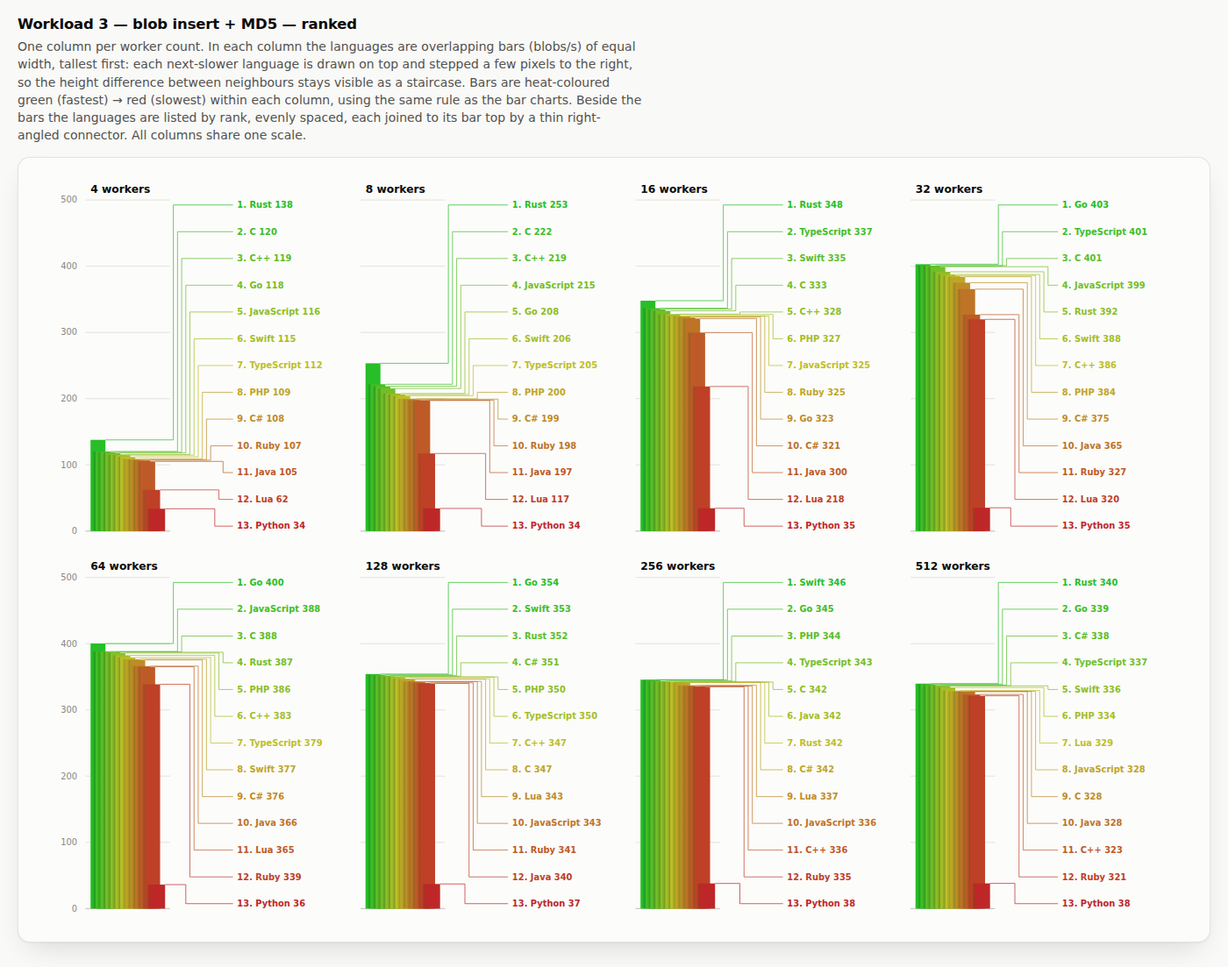
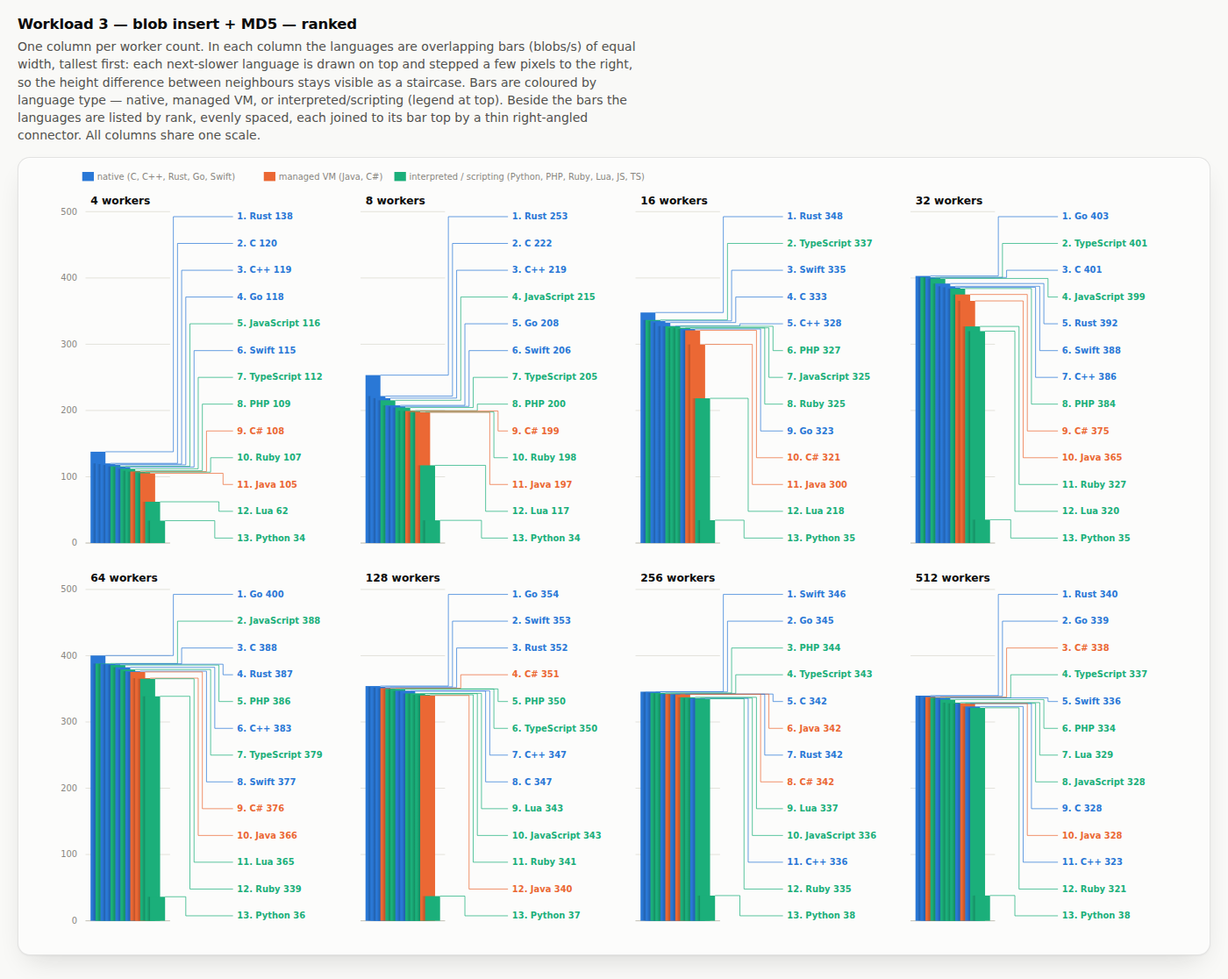
report: colour ranked-chart bars by language type (native / managed / interpreted)
Replace the heat-map colouring on ranked.html with three colours by language
type: native (C, C++, Rust, Go, Swift), managed VM (Java, C#), and
interpreted/scripting (Python, PHP, Ruby, Lua, JavaScript, TypeScript), using
palette slots 1-3. Connectors and labels take the same type colour; a legend
sits above the columns (TOP margin widened to fit). Subtitle updated.

diff --git a/report/ranked.html b/report/ranked.html
@@ -114,22 +114,22 @@
 
   <section id="sec-w1-rank">
     <h2>Workload 1 — integer insert — ranked</h2>
-    <p class="sub">One column per worker count. In each column the languages are overlapping bars (rows/s) of equal width, tallest first: each next-slower language is drawn on top and stepped a few pixels to the right, so the height difference between neighbours stays visible as a staircase. Bars are heat-coloured green&nbsp;(fastest)&nbsp;&rarr;&nbsp;red&nbsp;(slowest) within each column, using the same rule as the bar charts. Beside the bars the languages are listed by rank, evenly spaced, each joined to its bar top by a thin right-angled connector. All columns share one scale.</p>
+    <p class="sub">One column per worker count. In each column the languages are overlapping bars (rows/s) of equal width, tallest first: each next-slower language is drawn on top and stepped a few pixels to the right, so the height difference between neighbours stays visible as a staircase. Bars are coloured by language type &mdash; native, managed VM, or interpreted/scripting (legend at top). Beside the bars the languages are listed by rank, evenly spaced, each joined to its bar top by a thin right-angled connector. All columns share one scale.</p>
     <div class="bigchart" id="chart-w1-rank"></div>
   </section>
   <section id="sec-w2-rank">
     <h2>Workload 2 — integer fetch + sum — ranked</h2>
-    <p class="sub">One column per worker count. In each column the languages are overlapping bars (rows/s) of equal width, tallest first: each next-slower language is drawn on top and stepped a few pixels to the right, so the height difference between neighbours stays visible as a staircase. Bars are heat-coloured green&nbsp;(fastest)&nbsp;&rarr;&nbsp;red&nbsp;(slowest) within each column, using the same rule as the bar charts. Beside the bars the languages are listed by rank, evenly spaced, each joined to its bar top by a thin right-angled connector. All columns share one scale.</p>
+    <p class="sub">One column per worker count. In each column the languages are overlapping bars (rows/s) of equal width, tallest first: each next-slower language is drawn on top and stepped a few pixels to the right, so the height difference between neighbours stays visible as a staircase. Bars are coloured by language type &mdash; native, managed VM, or interpreted/scripting (legend at top). Beside the bars the languages are listed by rank, evenly spaced, each joined to its bar top by a thin right-angled connector. All columns share one scale.</p>
     <div class="bigchart" id="chart-w2-rank"></div>
   </section>
   <section id="sec-w3-rank">
     <h2>Workload 3 — blob insert + MD5 — ranked</h2>
-    <p class="sub">One column per worker count. In each column the languages are overlapping bars (blobs/s) of equal width, tallest first: each next-slower language is drawn on top and stepped a few pixels to the right, so the height difference between neighbours stays visible as a staircase. Bars are heat-coloured green&nbsp;(fastest)&nbsp;&rarr;&nbsp;red&nbsp;(slowest) within each column, using the same rule as the bar charts. Beside the bars the languages are listed by rank, evenly spaced, each joined to its bar top by a thin right-angled connector. All columns share one scale.</p>
+    <p class="sub">One column per worker count. In each column the languages are overlapping bars (blobs/s) of equal width, tallest first: each next-slower language is drawn on top and stepped a few pixels to the right, so the height difference between neighbours stays visible as a staircase. Bars are coloured by language type &mdash; native, managed VM, or interpreted/scripting (legend at top). Beside the bars the languages are listed by rank, evenly spaced, each joined to its bar top by a thin right-angled connector. All columns share one scale.</p>
     <div class="bigchart" id="chart-w3-rank"></div>
   </section>
   <section id="sec-w4-rank">
     <h2>Workload 4 — blob read + MD5 — ranked</h2>
-    <p class="sub">One column per worker count. In each column the languages are overlapping bars (blobs/s) of equal width, tallest first: each next-slower language is drawn on top and stepped a few pixels to the right, so the height difference between neighbours stays visible as a staircase. Bars are heat-coloured green&nbsp;(fastest)&nbsp;&rarr;&nbsp;red&nbsp;(slowest) within each column, using the same rule as the bar charts. Beside the bars the languages are listed by rank, evenly spaced, each joined to its bar top by a thin right-angled connector. All columns share one scale.</p>
+    <p class="sub">One column per worker count. In each column the languages are overlapping bars (blobs/s) of equal width, tallest first: each next-slower language is drawn on top and stepped a few pixels to the right, so the height difference between neighbours stays visible as a staircase. Bars are coloured by language type &mdash; native, managed VM, or interpreted/scripting (legend at top). Beside the bars the languages are listed by rank, evenly spaced, each joined to its bar top by a thin right-angled connector. All columns share one scale.</p>
     <div class="bigchart" id="chart-w4-rank"></div>
   </section>
   <footer>
@@ -422,7 +422,7 @@ const PAGE_BARS = false;
     const items = cfg.items, S = items.length, T = cfg.T, NT = T.length;
     const COLS = 4, ROWS = Math.ceil(NT / COLS);
     const BW = 1400, ML = 58, MR = 14, CW = (BW - ML - MR) / COLS;
-    const TITLE_H = 26, PLOT_H = 400, ROW_B = 30, RH = TITLE_H + PLOT_H + ROW_B, TOP = 8;
+    const TITLE_H = 26, PLOT_H = 400, ROW_B = 30, RH = TITLE_H + PLOT_H + ROW_B, TOP = 22;  // TOP leaves room for the type legend
     const BH = TOP + ROWS * RH;
     const OFF = 6, BARW = 3 * OFF, CHW = 5;   // bar width = 3x the step; each shorter bar shifted right by OFF
     const svg = el("svg", { viewBox: `0 0 ${BW} ${BH}`, role: "img", "aria-label": cfg.ariaLabel });
@@ -433,18 +433,19 @@ const PAGE_BARS = false;
       const s0 = el("stop", { offset: "0", "stop-color": "#000", "stop-opacity": "0" });
       const s1 = el("stop", { offset: "1", "stop-color": "#000", "stop-opacity": "0.22" });
       g.append(s0, s1); defs.appendChild(g); svg.appendChild(defs); }
-    // Heat-map colour by performance within the column (same rule as bars.html):
-    // wide spread (>50%) -> green..red by rank; tight group -> hue shifts only by
-    // each bar's shortfall from the column's best (red at a 50% deficit).
-    const heat = (vals) => {
-      const n = vals.length, best = vals[0], worst = vals[n - 1];
-      const byRank = best > 0 && (best - worst) / best > 0.5;
-      return vals.map((v, j) => {
-        const hue = byRank ? 120 * (1 - (n > 1 ? j / (n - 1) : 0))
-                           : 120 * (1 - Math.min(best > 0 ? (best - v) / best : 0, 0.5) / 0.5);
-        return `hsl(${hue.toFixed(1)}, 66%, 45%)`;
-      });
-    };
+    // Three colours by language type: native (compiled to machine code),
+    // managed (bytecode on a VM with a JIT), interpreted/scripting.
+    const LTYPE = { c: "native", cpp: "native", rust: "native", go: "native", swift: "native",
+                    java: "managed", csharp: "managed",
+                    python: "interp", php: "interp", ruby: "interp", lua: "interp", javascript: "interp", typescript: "interp" };
+    const TCOL = { native: "var(--cat-1)", managed: "var(--cat-2)", interp: "var(--cat-3)" };
+    const TNAME = { native: "native (C, C++, Rust, Go, Swift)", managed: "managed VM (Java, C#)", interp: "interpreted / scripting (Python, PHP, Ruby, Lua, JS, TS)" };
+    const typeCol = it => TCOL[LTYPE[it.lang] || "interp"];
+    // Legend along the top.
+    { let lx = ML; for (const k of ["native", "managed", "interp"]) {
+        svg.appendChild(el("rect", { x: lx, y: 0, width: 14, height: 11, fill: TCOL[k] }));
+        const t = el("text", { x: lx + 18, y: 9.5 }); t.textContent = TNAME[k]; svg.appendChild(t);
+        lx += 18 + TNAME[k].length * 5.6 + 22; } }
     const step = cfg.yMax / 5;
     T.forEach((t, ti) => {
       const c = ti % COLS, r = Math.floor(ti / COLS);
@@ -464,8 +465,7 @@ const PAGE_BARS = false;
       svg.appendChild(el("line", { x1: bx0 - 6, x2: bx0 + GW + 6, y1: pb, y2: pb, stroke: "var(--baseline)", "stroke-width": 1 }));
       // Flat equal-width bars, tallest first; each shorter one drawn on top,
       // shifted OFF px right, so the height differences read as a staircase.
-      const cols = heat(ranked.map(e => e.v));
-      ranked.forEach((e, j) => { e.col = cols[j]; });
+      ranked.forEach(e => { e.col = typeCol(e.it); });
       const tops = [];
       ranked.forEach((e, j) => {
         const yt = Y(e.v), h = Math.max(1, pb - yt);
@@ -610,7 +610,7 @@ const PAGE_BARS = false;
     });
     // Ranked bars (ranked.html): best = tallest + widest, connectors to labels.
     if (document.getElementById(`chart-w${w}-rank`)) {
-      const items = shown.map(s => ({ name: labelOf(s), vals: s.thr, value: Math.max(...s.thr.filter(v => v != null)), st: stOf(s) }))
+      const items = shown.map(s => ({ name: labelOf(s), lang: s.lang, vals: s.thr, value: Math.max(...s.thr.filter(v => v != null)), st: stOf(s) }))
         .sort((a, b) => b.value - a.value);
       rankChart({ hostId: `chart-w${w}-rank`, items, T: M.threads, yMax: niceMax(peak), unit: M.unit,
                   ariaLabel: `${M.title}: languages ranked by best throughput, nested bars per worker count` });

diff --git a/report/annotated.html b/report/annotated.html
@@ -426,7 +426,7 @@ const PAGE_BARS = false;
     const items = cfg.items, S = items.length, T = cfg.T, NT = T.length;
     const COLS = 4, ROWS = Math.ceil(NT / COLS);
     const BW = 1400, ML = 58, MR = 14, CW = (BW - ML - MR) / COLS;
-    const TITLE_H = 26, PLOT_H = 400, ROW_B = 30, RH = TITLE_H + PLOT_H + ROW_B, TOP = 8;
+    const TITLE_H = 26, PLOT_H = 400, ROW_B = 30, RH = TITLE_H + PLOT_H + ROW_B, TOP = 22;  // TOP leaves room for the type legend
     const BH = TOP + ROWS * RH;
     const OFF = 6, BARW = 3 * OFF, CHW = 5;   // bar width = 3x the step; each shorter bar shifted right by OFF
     const svg = el("svg", { viewBox: `0 0 ${BW} ${BH}`, role: "img", "aria-label": cfg.ariaLabel });
@@ -437,18 +437,19 @@ const PAGE_BARS = false;
       const s0 = el("stop", { offset: "0", "stop-color": "#000", "stop-opacity": "0" });
       const s1 = el("stop", { offset: "1", "stop-color": "#000", "stop-opacity": "0.22" });
       g.append(s0, s1); defs.appendChild(g); svg.appendChild(defs); }
-    // Heat-map colour by performance within the column (same rule as bars.html):
-    // wide spread (>50%) -> green..red by rank; tight group -> hue shifts only by
-    // each bar's shortfall from the column's best (red at a 50% deficit).
-    const heat = (vals) => {
-      const n = vals.length, best = vals[0], worst = vals[n - 1];
-      const byRank = best > 0 && (best - worst) / best > 0.5;
-      return vals.map((v, j) => {
-        const hue = byRank ? 120 * (1 - (n > 1 ? j / (n - 1) : 0))
-                           : 120 * (1 - Math.min(best > 0 ? (best - v) / best : 0, 0.5) / 0.5);
-        return `hsl(${hue.toFixed(1)}, 66%, 45%)`;
-      });
-    };
+    // Three colours by language type: native (compiled to machine code),
+    // managed (bytecode on a VM with a JIT), interpreted/scripting.
+    const LTYPE = { c: "native", cpp: "native", rust: "native", go: "native", swift: "native",
+                    java: "managed", csharp: "managed",
+                    python: "interp", php: "interp", ruby: "interp", lua: "interp", javascript: "interp", typescript: "interp" };
+    const TCOL = { native: "var(--cat-1)", managed: "var(--cat-2)", interp: "var(--cat-3)" };
+    const TNAME = { native: "native (C, C++, Rust, Go, Swift)", managed: "managed VM (Java, C#)", interp: "interpreted / scripting (Python, PHP, Ruby, Lua, JS, TS)" };
+    const typeCol = it => TCOL[LTYPE[it.lang] || "interp"];
+    // Legend along the top.
+    { let lx = ML; for (const k of ["native", "managed", "interp"]) {
+        svg.appendChild(el("rect", { x: lx, y: 0, width: 14, height: 11, fill: TCOL[k] }));
+        const t = el("text", { x: lx + 18, y: 9.5 }); t.textContent = TNAME[k]; svg.appendChild(t);
+        lx += 18 + TNAME[k].length * 5.6 + 22; } }
     const step = cfg.yMax / 5;
     T.forEach((t, ti) => {
       const c = ti % COLS, r = Math.floor(ti / COLS);
@@ -468,8 +469,7 @@ const PAGE_BARS = false;
       svg.appendChild(el("line", { x1: bx0 - 6, x2: bx0 + GW + 6, y1: pb, y2: pb, stroke: "var(--baseline)", "stroke-width": 1 }));
       // Flat equal-width bars, tallest first; each shorter one drawn on top,
       // shifted OFF px right, so the height differences read as a staircase.
-      const cols = heat(ranked.map(e => e.v));
-      ranked.forEach((e, j) => { e.col = cols[j]; });
+      ranked.forEach(e => { e.col = typeCol(e.it); });
       const tops = [];
       ranked.forEach((e, j) => {
         const yt = Y(e.v), h = Math.max(1, pb - yt);
@@ -614,7 +614,7 @@ const PAGE_BARS = false;
     });
     // Ranked bars (ranked.html): best = tallest + widest, connectors to labels.
     if (document.getElementById(`chart-w${w}-rank`)) {
-      const items = shown.map(s => ({ name: labelOf(s), vals: s.thr, value: Math.max(...s.thr.filter(v => v != null)), st: stOf(s) }))
+      const items = shown.map(s => ({ name: labelOf(s), lang: s.lang, vals: s.thr, value: Math.max(...s.thr.filter(v => v != null)), st: stOf(s) }))
         .sort((a, b) => b.value - a.value);
       rankChart({ hostId: `chart-w${w}-rank`, items, T: M.threads, yMax: niceMax(peak), unit: M.unit,
                   ariaLabel: `${M.title}: languages ranked by best throughput, nested bars per worker count` });

diff --git a/report/report.html b/report/report.html
@@ -506,7 +506,7 @@ const PAGE_BARS = false;
     const items = cfg.items, S = items.length, T = cfg.T, NT = T.length;
     const COLS = 4, ROWS = Math.ceil(NT / COLS);
     const BW = 1400, ML = 58, MR = 14, CW = (BW - ML - MR) / COLS;
-    const TITLE_H = 26, PLOT_H = 400, ROW_B = 30, RH = TITLE_H + PLOT_H + ROW_B, TOP = 8;
+    const TITLE_H = 26, PLOT_H = 400, ROW_B = 30, RH = TITLE_H + PLOT_H + ROW_B, TOP = 22;  // TOP leaves room for the type legend
     const BH = TOP + ROWS * RH;
     const OFF = 6, BARW = 3 * OFF, CHW = 5;   // bar width = 3x the step; each shorter bar shifted right by OFF
     const svg = el("svg", { viewBox: `0 0 ${BW} ${BH}`, role: "img", "aria-label": cfg.ariaLabel });
@@ -517,18 +517,19 @@ const PAGE_BARS = false;
       const s0 = el("stop", { offset: "0", "stop-color": "#000", "stop-opacity": "0" });
       const s1 = el("stop", { offset: "1", "stop-color": "#000", "stop-opacity": "0.22" });
       g.append(s0, s1); defs.appendChild(g); svg.appendChild(defs); }
-    // Heat-map colour by performance within the column (same rule as bars.html):
-    // wide spread (>50%) -> green..red by rank; tight group -> hue shifts only by
-    // each bar's shortfall from the column's best (red at a 50% deficit).
-    const heat = (vals) => {
-      const n = vals.length, best = vals[0], worst = vals[n - 1];
-      const byRank = best > 0 && (best - worst) / best > 0.5;
-      return vals.map((v, j) => {
-        const hue = byRank ? 120 * (1 - (n > 1 ? j / (n - 1) : 0))
-                           : 120 * (1 - Math.min(best > 0 ? (best - v) / best : 0, 0.5) / 0.5);
-        return `hsl(${hue.toFixed(1)}, 66%, 45%)`;
-      });
-    };
+    // Three colours by language type: native (compiled to machine code),
+    // managed (bytecode on a VM with a JIT), interpreted/scripting.
+    const LTYPE = { c: "native", cpp: "native", rust: "native", go: "native", swift: "native",
+                    java: "managed", csharp: "managed",
+                    python: "interp", php: "interp", ruby: "interp", lua: "interp", javascript: "interp", typescript: "interp" };
+    const TCOL = { native: "var(--cat-1)", managed: "var(--cat-2)", interp: "var(--cat-3)" };
+    const TNAME = { native: "native (C, C++, Rust, Go, Swift)", managed: "managed VM (Java, C#)", interp: "interpreted / scripting (Python, PHP, Ruby, Lua, JS, TS)" };
+    const typeCol = it => TCOL[LTYPE[it.lang] || "interp"];
+    // Legend along the top.
+    { let lx = ML; for (const k of ["native", "managed", "interp"]) {
+        svg.appendChild(el("rect", { x: lx, y: 0, width: 14, height: 11, fill: TCOL[k] }));
+        const t = el("text", { x: lx + 18, y: 9.5 }); t.textContent = TNAME[k]; svg.appendChild(t);
+        lx += 18 + TNAME[k].length * 5.6 + 22; } }
     const step = cfg.yMax / 5;
     T.forEach((t, ti) => {
       const c = ti % COLS, r = Math.floor(ti / COLS);
@@ -548,8 +549,7 @@ const PAGE_BARS = false;
       svg.appendChild(el("line", { x1: bx0 - 6, x2: bx0 + GW + 6, y1: pb, y2: pb, stroke: "var(--baseline)", "stroke-width": 1 }));
       // Flat equal-width bars, tallest first; each shorter one drawn on top,
       // shifted OFF px right, so the height differences read as a staircase.
-      const cols = heat(ranked.map(e => e.v));
-      ranked.forEach((e, j) => { e.col = cols[j]; });
+      ranked.forEach(e => { e.col = typeCol(e.it); });
       const tops = [];
       ranked.forEach((e, j) => {
         const yt = Y(e.v), h = Math.max(1, pb - yt);
@@ -694,7 +694,7 @@ const PAGE_BARS = false;
     });
     // Ranked bars (ranked.html): best = tallest + widest, connectors to labels.
     if (document.getElementById(`chart-w${w}-rank`)) {
-      const items = shown.map(s => ({ name: labelOf(s), vals: s.thr, value: Math.max(...s.thr.filter(v => v != null)), st: stOf(s) }))
+      const items = shown.map(s => ({ name: labelOf(s), lang: s.lang, vals: s.thr, value: Math.max(...s.thr.filter(v => v != null)), st: stOf(s) }))
         .sort((a, b) => b.value - a.value);
       rankChart({ hostId: `chart-w${w}-rank`, items, T: M.threads, yMax: niceMax(peak), unit: M.unit,
                   ariaLabel: `${M.title}: languages ranked by best throughput, nested bars per worker count` });

diff --git a/report/bars.html b/report/bars.html
@@ -426,7 +426,7 @@ const PAGE_BARS = true;
     const items = cfg.items, S = items.length, T = cfg.T, NT = T.length;
     const COLS = 4, ROWS = Math.ceil(NT / COLS);
     const BW = 1400, ML = 58, MR = 14, CW = (BW - ML - MR) / COLS;
-    const TITLE_H = 26, PLOT_H = 400, ROW_B = 30, RH = TITLE_H + PLOT_H + ROW_B, TOP = 8;
+    const TITLE_H = 26, PLOT_H = 400, ROW_B = 30, RH = TITLE_H + PLOT_H + ROW_B, TOP = 22;  // TOP leaves room for the type legend
     const BH = TOP + ROWS * RH;
     const OFF = 6, BARW = 3 * OFF, CHW = 5;   // bar width = 3x the step; each shorter bar shifted right by OFF
     const svg = el("svg", { viewBox: `0 0 ${BW} ${BH}`, role: "img", "aria-label": cfg.ariaLabel });
@@ -437,18 +437,19 @@ const PAGE_BARS = true;
       const s0 = el("stop", { offset: "0", "stop-color": "#000", "stop-opacity": "0" });
       const s1 = el("stop", { offset: "1", "stop-color": "#000", "stop-opacity": "0.22" });
       g.append(s0, s1); defs.appendChild(g); svg.appendChild(defs); }
-    // Heat-map colour by performance within the column (same rule as bars.html):
-    // wide spread (>50%) -> green..red by rank; tight group -> hue shifts only by
-    // each bar's shortfall from the column's best (red at a 50% deficit).
-    const heat = (vals) => {
-      const n = vals.length, best = vals[0], worst = vals[n - 1];
-      const byRank = best > 0 && (best - worst) / best > 0.5;
-      return vals.map((v, j) => {
-        const hue = byRank ? 120 * (1 - (n > 1 ? j / (n - 1) : 0))
-                           : 120 * (1 - Math.min(best > 0 ? (best - v) / best : 0, 0.5) / 0.5);
-        return `hsl(${hue.toFixed(1)}, 66%, 45%)`;
-      });
-    };
+    // Three colours by language type: native (compiled to machine code),
+    // managed (bytecode on a VM with a JIT), interpreted/scripting.
+    const LTYPE = { c: "native", cpp: "native", rust: "native", go: "native", swift: "native",
+                    java: "managed", csharp: "managed",
+                    python: "interp", php: "interp", ruby: "interp", lua: "interp", javascript: "interp", typescript: "interp" };
+    const TCOL = { native: "var(--cat-1)", managed: "var(--cat-2)", interp: "var(--cat-3)" };
+    const TNAME = { native: "native (C, C++, Rust, Go, Swift)", managed: "managed VM (Java, C#)", interp: "interpreted / scripting (Python, PHP, Ruby, Lua, JS, TS)" };
+    const typeCol = it => TCOL[LTYPE[it.lang] || "interp"];
+    // Legend along the top.
+    { let lx = ML; for (const k of ["native", "managed", "interp"]) {
+        svg.appendChild(el("rect", { x: lx, y: 0, width: 14, height: 11, fill: TCOL[k] }));
+        const t = el("text", { x: lx + 18, y: 9.5 }); t.textContent = TNAME[k]; svg.appendChild(t);
+        lx += 18 + TNAME[k].length * 5.6 + 22; } }
     const step = cfg.yMax / 5;
     T.forEach((t, ti) => {
       const c = ti % COLS, r = Math.floor(ti / COLS);
@@ -468,8 +469,7 @@ const PAGE_BARS = true;
       svg.appendChild(el("line", { x1: bx0 - 6, x2: bx0 + GW + 6, y1: pb, y2: pb, stroke: "var(--baseline)", "stroke-width": 1 }));
       // Flat equal-width bars, tallest first; each shorter one drawn on top,
       // shifted OFF px right, so the height differences read as a staircase.
-      const cols = heat(ranked.map(e => e.v));
-      ranked.forEach((e, j) => { e.col = cols[j]; });
+      ranked.forEach(e => { e.col = typeCol(e.it); });
       const tops = [];
       ranked.forEach((e, j) => {
         const yt = Y(e.v), h = Math.max(1, pb - yt);
@@ -614,7 +614,7 @@ const PAGE_BARS = true;
     });
     // Ranked bars (ranked.html): best = tallest + widest, connectors to labels.
     if (document.getElementById(`chart-w${w}-rank`)) {
-      const items = shown.map(s => ({ name: labelOf(s), vals: s.thr, value: Math.max(...s.thr.filter(v => v != null)), st: stOf(s) }))
+      const items = shown.map(s => ({ name: labelOf(s), lang: s.lang, vals: s.thr, value: Math.max(...s.thr.filter(v => v != null)), st: stOf(s) }))
         .sort((a, b) => b.value - a.value);
       rankChart({ hostId: `chart-w${w}-rank`, items, T: M.threads, yMax: niceMax(peak), unit: M.unit,
                   ariaLabel: `${M.title}: languages ranked by best throughput, nested bars per worker count` });

diff --git a/report/generate_html_report.py b/report/generate_html_report.py
@@ -328,7 +328,7 @@ def main():
         rank_sections += f"""
   <section id="sec-{sid}-rank">
     <h2>{m['title']} — ranked</h2>
-    <p class="sub">One column per worker count. In each column the languages are overlapping bars ({m['unit']}) of equal width, tallest first: each next-slower language is drawn on top and stepped a few pixels to the right, so the height difference between neighbours stays visible as a staircase. Bars are heat-coloured green&nbsp;(fastest)&nbsp;&rarr;&nbsp;red&nbsp;(slowest) within each column, using the same rule as the bar charts. Beside the bars the languages are listed by rank, evenly spaced, each joined to its bar top by a thin right-angled connector. All columns share one scale.</p>
+    <p class="sub">One column per worker count. In each column the languages are overlapping bars ({m['unit']}) of equal width, tallest first: each next-slower language is drawn on top and stepped a few pixels to the right, so the height difference between neighbours stays visible as a staircase. Bars are coloured by language type &mdash; native, managed VM, or interpreted/scripting (legend at top). Beside the bars the languages are listed by rank, evenly spaced, each joined to its bar top by a thin right-angled connector. All columns share one scale.</p>
     <div class="bigchart" id="chart-{sid}-rank"></div>
   </section>"""
         png_ann.append(f"{sid}-ann")
@@ -456,7 +456,7 @@ def main():
     RANK_W = 1400
     for sid, nthreads in png_rank:
         rows = -(-nthreads // 4)
-        bh = 8 + rows * 456
+        bh = 22 + rows * 456
         shoot(PNG_DIR / f"{sid}.png", f"file://{RANK_OUT}#png-{sid}",
               int(round((RANK_W - PNG_PAD) * bh / 1400 + 230)), RANK_W)
     # Annotated line charts: wider and taller SVG (viewBox 1400x840) so per-node
@@ -875,7 +875,7 @@ const PAGE_BARS = __PAGE_BARS__;
     const items = cfg.items, S = items.length, T = cfg.T, NT = T.length;
     const COLS = 4, ROWS = Math.ceil(NT / COLS);
     const BW = 1400, ML = 58, MR = 14, CW = (BW - ML - MR) / COLS;
-    const TITLE_H = 26, PLOT_H = 400, ROW_B = 30, RH = TITLE_H + PLOT_H + ROW_B, TOP = 8;
+    const TITLE_H = 26, PLOT_H = 400, ROW_B = 30, RH = TITLE_H + PLOT_H + ROW_B, TOP = 22;  // TOP leaves room for the type legend
     const BH = TOP + ROWS * RH;
     const OFF = 6, BARW = 3 * OFF, CHW = 5;   // bar width = 3x the step; each shorter bar shifted right by OFF
     const svg = el("svg", { viewBox: `0 0 ${BW} ${BH}`, role: "img", "aria-label": cfg.ariaLabel });
@@ -886,18 +886,19 @@ const PAGE_BARS = __PAGE_BARS__;
       const s0 = el("stop", { offset: "0", "stop-color": "#000", "stop-opacity": "0" });
       const s1 = el("stop", { offset: "1", "stop-color": "#000", "stop-opacity": "0.22" });
       g.append(s0, s1); defs.appendChild(g); svg.appendChild(defs); }
-    // Heat-map colour by performance within the column (same rule as bars.html):
-    // wide spread (>50%) -> green..red by rank; tight group -> hue shifts only by
-    // each bar's shortfall from the column's best (red at a 50% deficit).
-    const heat = (vals) => {
-      const n = vals.length, best = vals[0], worst = vals[n - 1];
-      const byRank = best > 0 && (best - worst) / best > 0.5;
-      return vals.map((v, j) => {
-        const hue = byRank ? 120 * (1 - (n > 1 ? j / (n - 1) : 0))
-                           : 120 * (1 - Math.min(best > 0 ? (best - v) / best : 0, 0.5) / 0.5);
-        return `hsl(${hue.toFixed(1)}, 66%, 45%)`;
-      });
-    };
+    // Three colours by language type: native (compiled to machine code),
+    // managed (bytecode on a VM with a JIT), interpreted/scripting.
+    const LTYPE = { c: "native", cpp: "native", rust: "native", go: "native", swift: "native",
+                    java: "managed", csharp: "managed",
+                    python: "interp", php: "interp", ruby: "interp", lua: "interp", javascript: "interp", typescript: "interp" };
+    const TCOL = { native: "var(--cat-1)", managed: "var(--cat-2)", interp: "var(--cat-3)" };
+    const TNAME = { native: "native (C, C++, Rust, Go, Swift)", managed: "managed VM (Java, C#)", interp: "interpreted / scripting (Python, PHP, Ruby, Lua, JS, TS)" };
+    const typeCol = it => TCOL[LTYPE[it.lang] || "interp"];
+    // Legend along the top.
+    { let lx = ML; for (const k of ["native", "managed", "interp"]) {
+        svg.appendChild(el("rect", { x: lx, y: 0, width: 14, height: 11, fill: TCOL[k] }));
+        const t = el("text", { x: lx + 18, y: 9.5 }); t.textContent = TNAME[k]; svg.appendChild(t);
+        lx += 18 + TNAME[k].length * 5.6 + 22; } }
     const step = cfg.yMax / 5;
     T.forEach((t, ti) => {
       const c = ti % COLS, r = Math.floor(ti / COLS);
@@ -917,8 +918,7 @@ const PAGE_BARS = __PAGE_BARS__;
       svg.appendChild(el("line", { x1: bx0 - 6, x2: bx0 + GW + 6, y1: pb, y2: pb, stroke: "var(--baseline)", "stroke-width": 1 }));
       // Flat equal-width bars, tallest first; each shorter one drawn on top,
       // shifted OFF px right, so the height differences read as a staircase.
-      const cols = heat(ranked.map(e => e.v));
-      ranked.forEach((e, j) => { e.col = cols[j]; });
+      ranked.forEach(e => { e.col = typeCol(e.it); });
       const tops = [];
       ranked.forEach((e, j) => {
         const yt = Y(e.v), h = Math.max(1, pb - yt);
@@ -1063,7 +1063,7 @@ const PAGE_BARS = __PAGE_BARS__;
     });
     // Ranked bars (ranked.html): best = tallest + widest, connectors to labels.
     if (document.getElementById(`chart-w${w}-rank`)) {
-      const items = shown.map(s => ({ name: labelOf(s), vals: s.thr, value: Math.max(...s.thr.filter(v => v != null)), st: stOf(s) }))
+      const items = shown.map(s => ({ name: labelOf(s), lang: s.lang, vals: s.thr, value: Math.max(...s.thr.filter(v => v != null)), st: stOf(s) }))
         .sort((a, b) => b.value - a.value);
       rankChart({ hostId: `chart-w${w}-rank`, items, T: M.threads, yMax: niceMax(peak), unit: M.unit,
                   ariaLabel: `${M.title}: languages ranked by best throughput, nested bars per worker count` });
